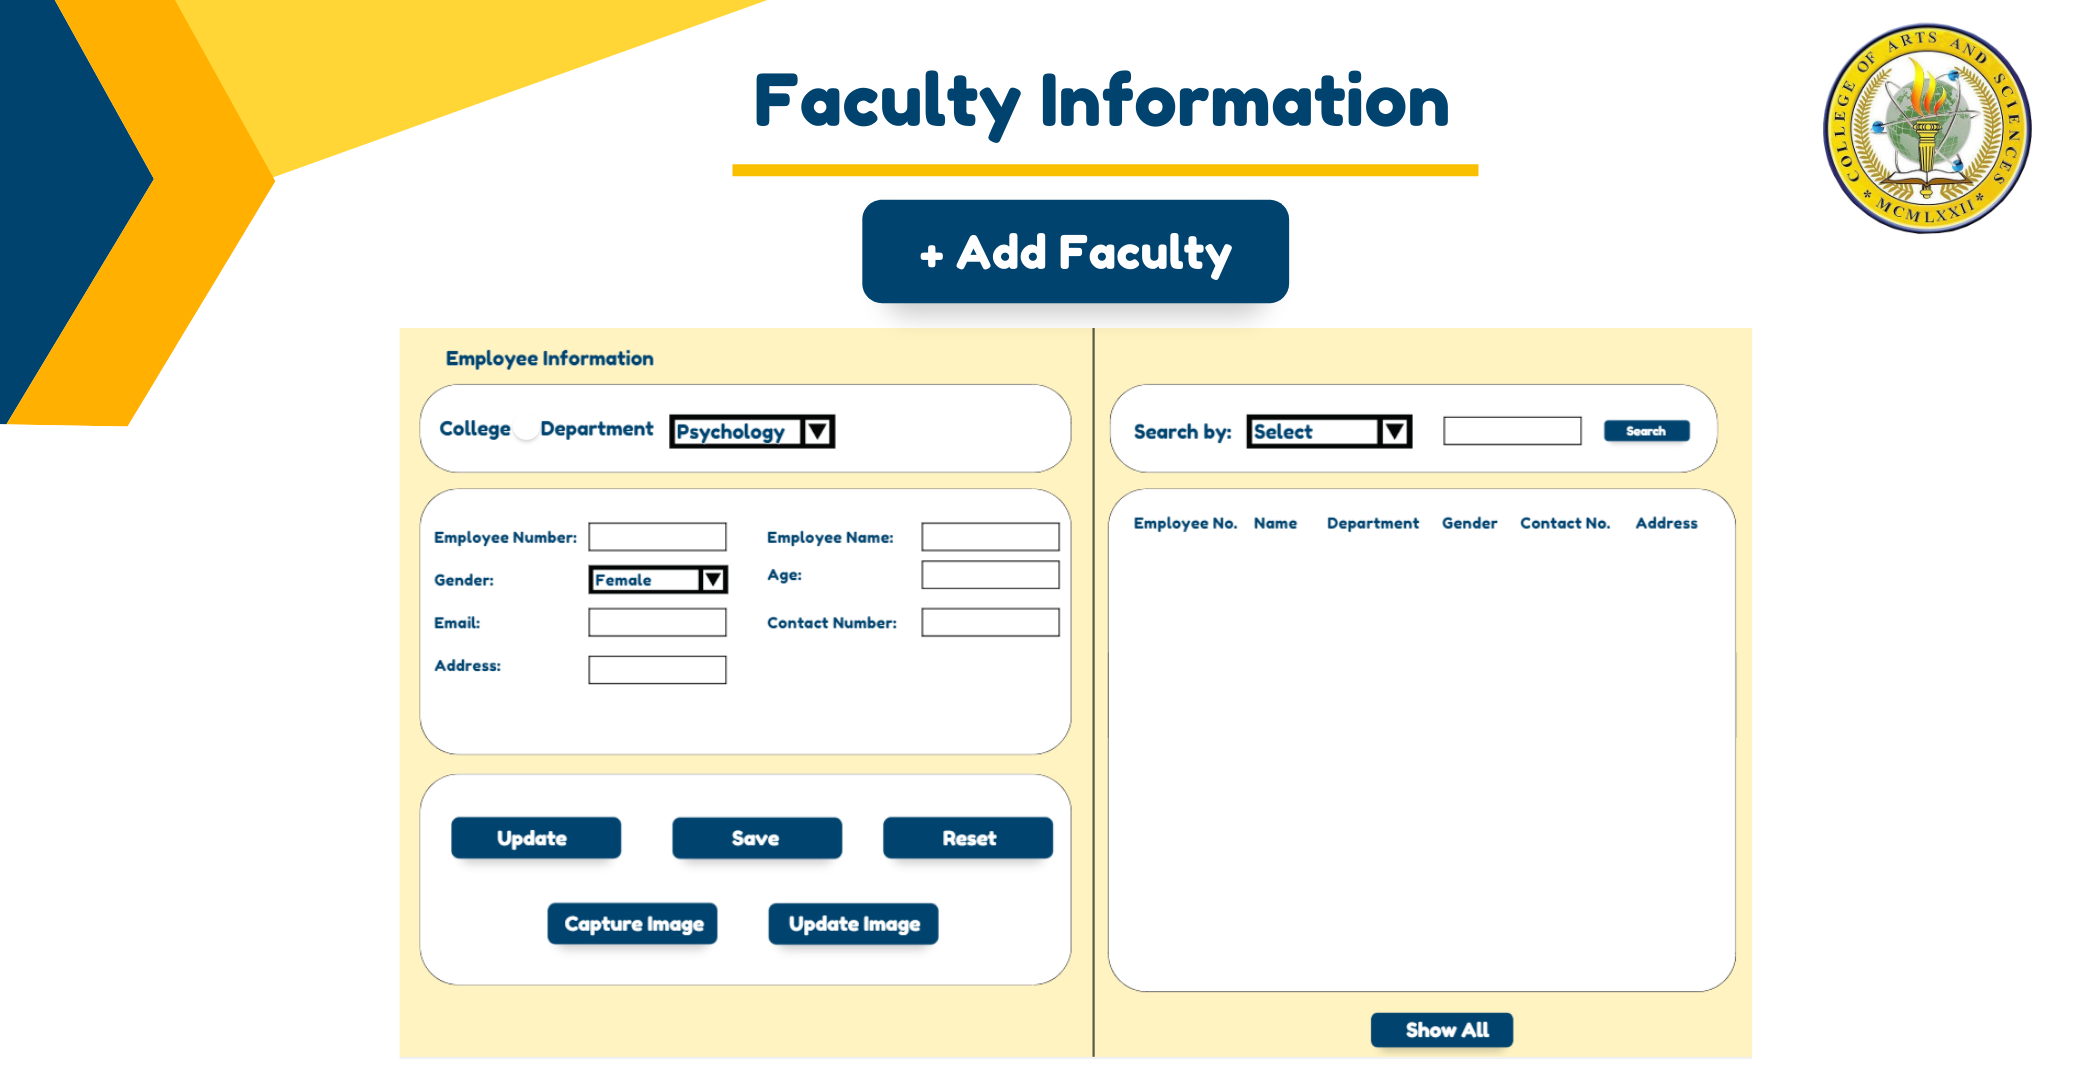
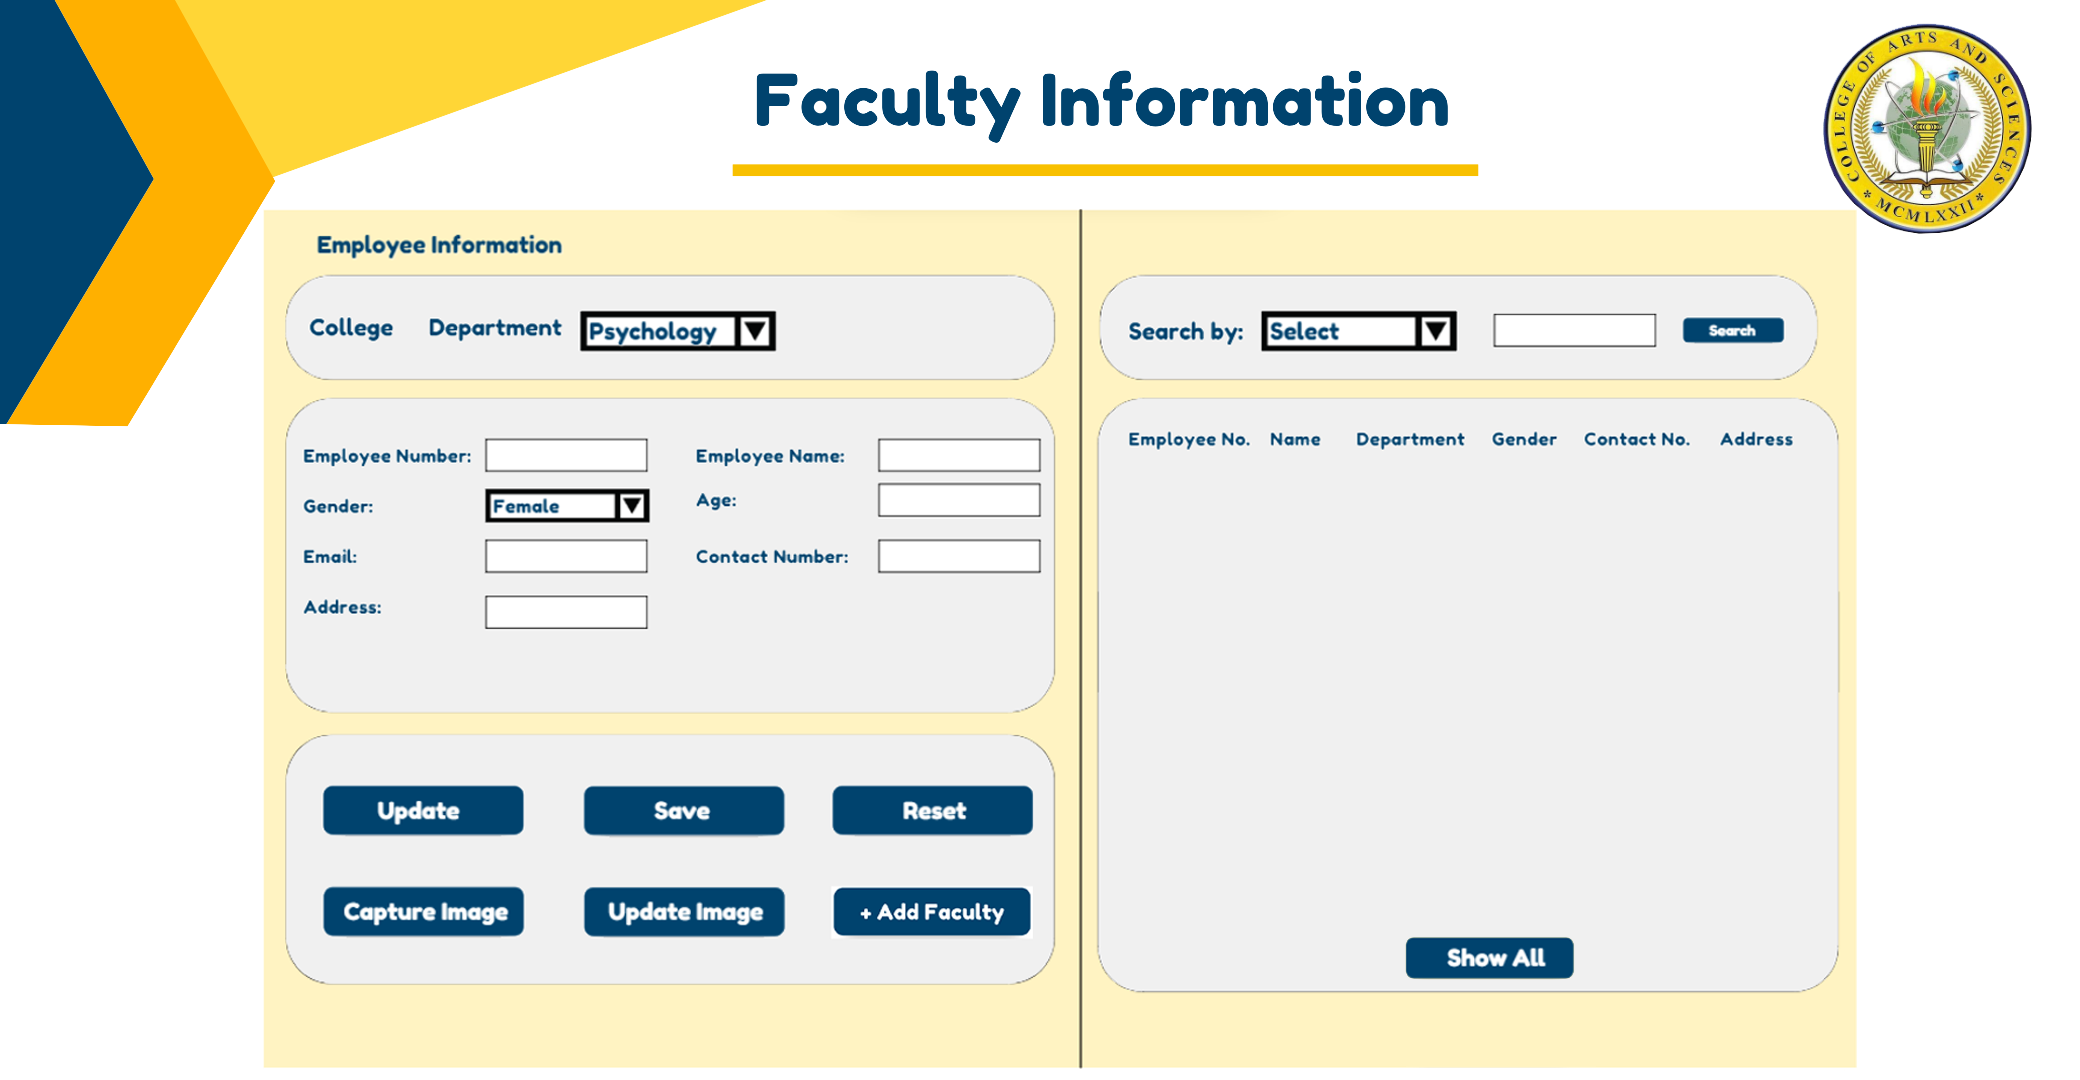
updated

Changed region(s): [[0.125, 0.1833, 0.9062, 1.0]]

diff --git a/face_recog.py b/face_recog.py
@@ -3,6 +3,8 @@ from tkinter import font, ttk, messagebox
 from PIL import ImageTk, Image 
 import time
 import customtkinter
+import os
+import openpyxl
 
 w=Tk()
 
@@ -115,16 +117,17 @@ def new_win():
     page3 = Frame(main_window)
     page4 = Frame(main_window)
     attendance_record = Frame(main_window)
+    faculty_information = Frame(main_window)
 
-    for frame in (page1, page2, page3, page4, attendance_record):
+    for frame in (page1, page2, page3, page4, attendance_record,faculty_information):
         frame.grid(row=0, column=0, sticky='nsew')
 
     def show_frame(frame):
         frame.tkraise()
 
-    show_frame(attendance_record)
+    show_frame(faculty_information)
 
-    # ============= Page 1 =========
+    # ============= Page 1 Frame =========
 
         # open background image
     page1.pg1_image = Image.open('pic/2.png')
@@ -143,7 +146,7 @@ def new_win():
     pg1_button_bio = Button(page1,image=biometric_img_btn, borderwidth=0,bg='#1f2a76', command=lambda: show_frame(page2))
     pg1_button_bio.place(x=99, y=256)
 
-    # ============= Page 2 =========
+    # ============= Page 2 Frame =========
 
         # open background image
     page2.pg2_image = Image.open('pic/3.png')
@@ -162,7 +165,7 @@ def new_win():
     pg2_button_admin = Button(page2,image=admin_img_btn, borderwidth=0, bg='#1f2a76',command=lambda: show_frame(page3))
     pg2_button_admin.place(x=99, y=422)
 
-    # ======== Page 3 ===========
+    # ======== Page 3 Admin Sign In Frame ===========
 
         # open background image
     page3.pg3_image = Image.open('pic/4.png')
@@ -211,7 +214,7 @@ def new_win():
     check_button = Checkbutton(page3, text="show password",bg="#1f2a76", command=show_password, font="Arial", activebackground="#1f2a76",)
     check_button.place(x=116,y=520)
 
-    # ============= Page 4 =========
+    # ============= Page 4 Home  Frame =========
 
         # open background image
     page4.pg4_image = Image.open('pic/7.png')
@@ -219,17 +222,11 @@ def new_win():
     page4.photo = ImageTk.PhotoImage(page4.pg4_resize_image)
     page4.pg4_bg_img_lb = Label(page4, image = page4.photo)
     page4.pg4_bg_img_lb.pack()
-    
-        # Faculty Information Button
-    faculty_info_btn = PhotoImage(file = "pic/faculty_info.png")
-    pg4_button_faculty = customtkinter.CTkButton(master=page4,image=faculty_info_btn, text="" ,
-                                                corner_radius=20, fg_color="#00436e",hover_color="#006699", command=lambda: show_frame(page2))
-    pg4_button_faculty.place(x=100, y=314, height=134,width=562)
 
         # Faculty Information Button
     faculty_info_btn = PhotoImage(file = "pic/faculty_info.png")
     pg4_button_faculty = customtkinter.CTkButton(master=page4,image=faculty_info_btn, text="" ,
-                                                corner_radius=30, fg_color="#00436e",hover_color="#006699", command=lambda: show_frame(page2))
+                                                corner_radius=30, fg_color="#00436e",hover_color="#006699", command=lambda: show_frame(faculty_information))
     pg4_button_faculty.place(x=100, y=314, height=134,width=562)
 
         # Attendace Record Button
@@ -262,7 +259,7 @@ def new_win():
                                                 corner_radius=30, fg_color="#f0f0f0",hover_color="#6699cc", command=lambda: show_frame(page2))
     pg4_button_logout.place(x=1075, y=469, height=178,width=197)
 
-    # ============= Attendace Record =========
+    # ============= Attendace Record Frame =========
 
         # open background image
     attendance_record.att_rec_image = Image.open('pic/8.png')
@@ -294,6 +291,21 @@ def new_win():
     att_rec_button_app_psyc_fac = customtkinter.CTkButton(master=attendance_record,image=app_psyc_fac_btn, text="" ,
                                                 corner_radius=20,bg='#ffffff', fg_color="#00436e",hover_color="#006699", command=lambda: show_frame(page2))
     att_rec_button_app_psyc_fac.place(x=731, y=394, height=99,width=413)
+
+    # ============= Faculty Information Frame =========
+
+        # open background image
+    faculty_information.fac_inf_image = Image.open('pic/10.png')
+    faculty_information.fac_inf_resize_image = faculty_information.fac_inf_image.resize((1362, 692))
+    faculty_information.photo = ImageTk.PhotoImage(faculty_information.fac_inf_resize_image)
+    faculty_information.fac_inf_bg_img_lb = Label(faculty_information, image = faculty_information.photo)
+    faculty_information.fac_inf_bg_img_lb.pack()
+
+    nationality_combobox = ttk.Combobox(user_info_frame, values=["Mathematics", "ITE", "Psychology", "Applied Physics"])
+
+    # clg_dep_label = Label(faculty_information, text="College Department")
+    # clg_dep_label.place(x=200, y=200)
+    
 
     main_window.mainloop()
 
